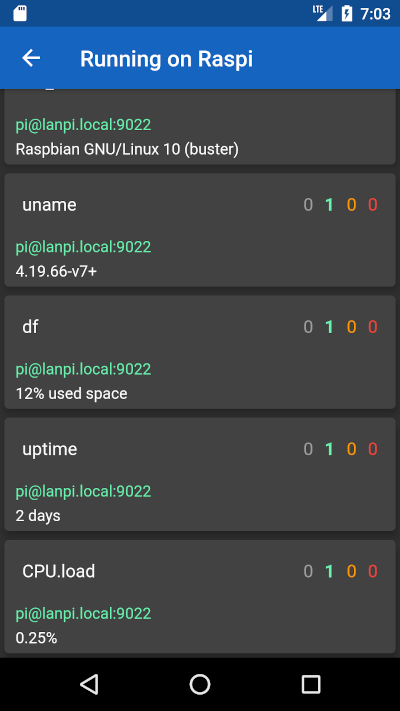
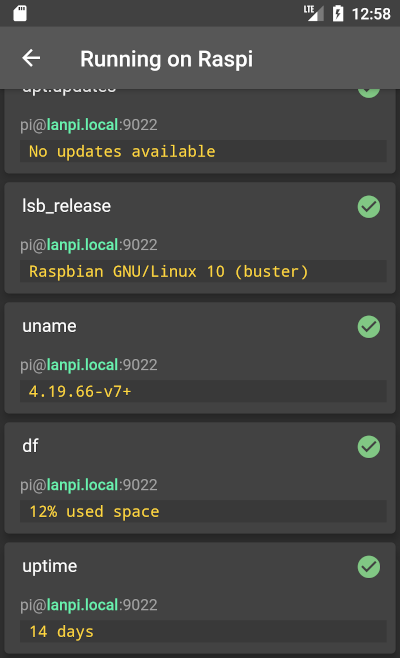
chg: updated screenshots

diff --git a/README.md b/README.md
@@ -8,7 +8,7 @@ You can try out Cluster Up here:
 https://play.google.com/store/apps/details?id=com.devsamuko.clusterup
 
 # Screenshots
-![](res/screenshot_edit.png)
+![](res/screenshot_edit_server.png)
 ![](res/screenshot_running.png)
 
 # Architecture
